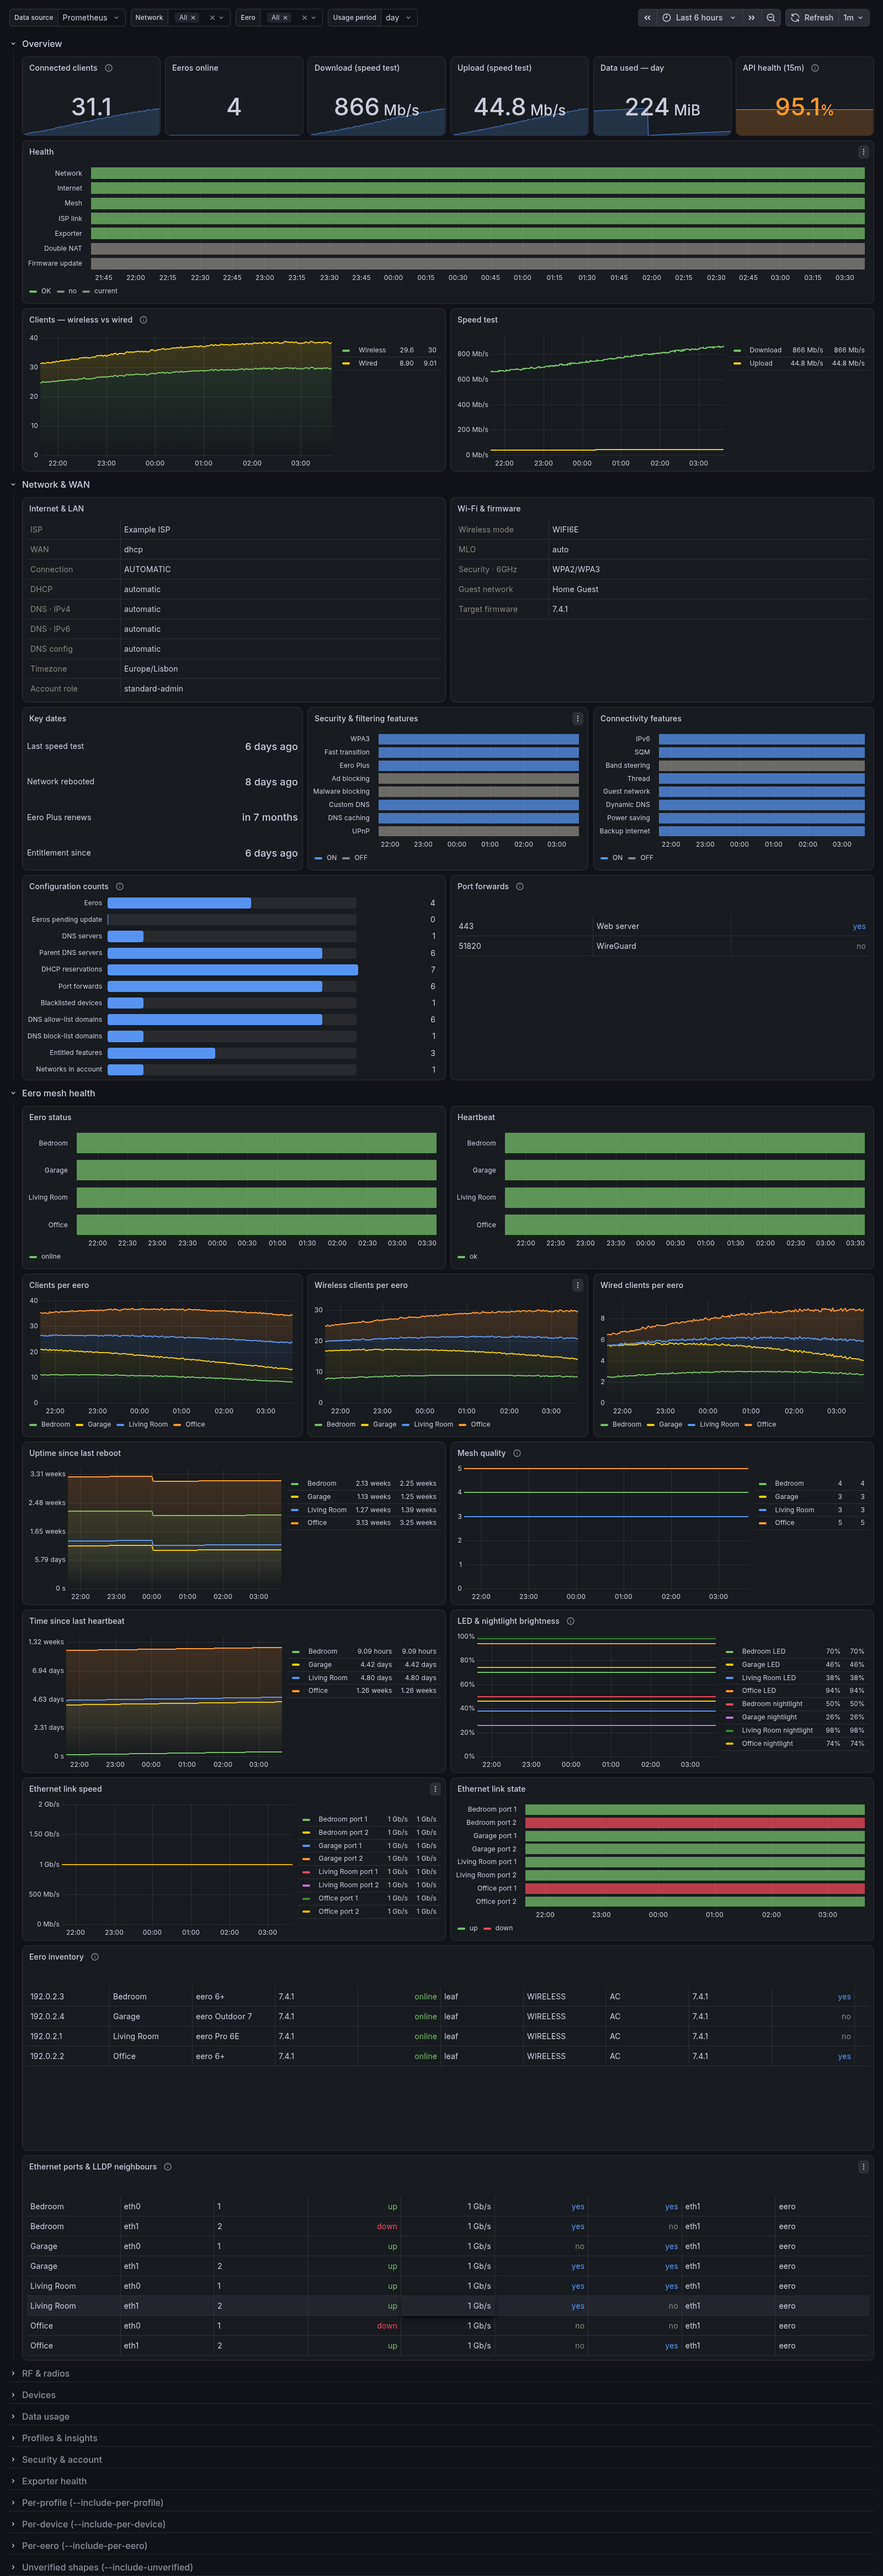
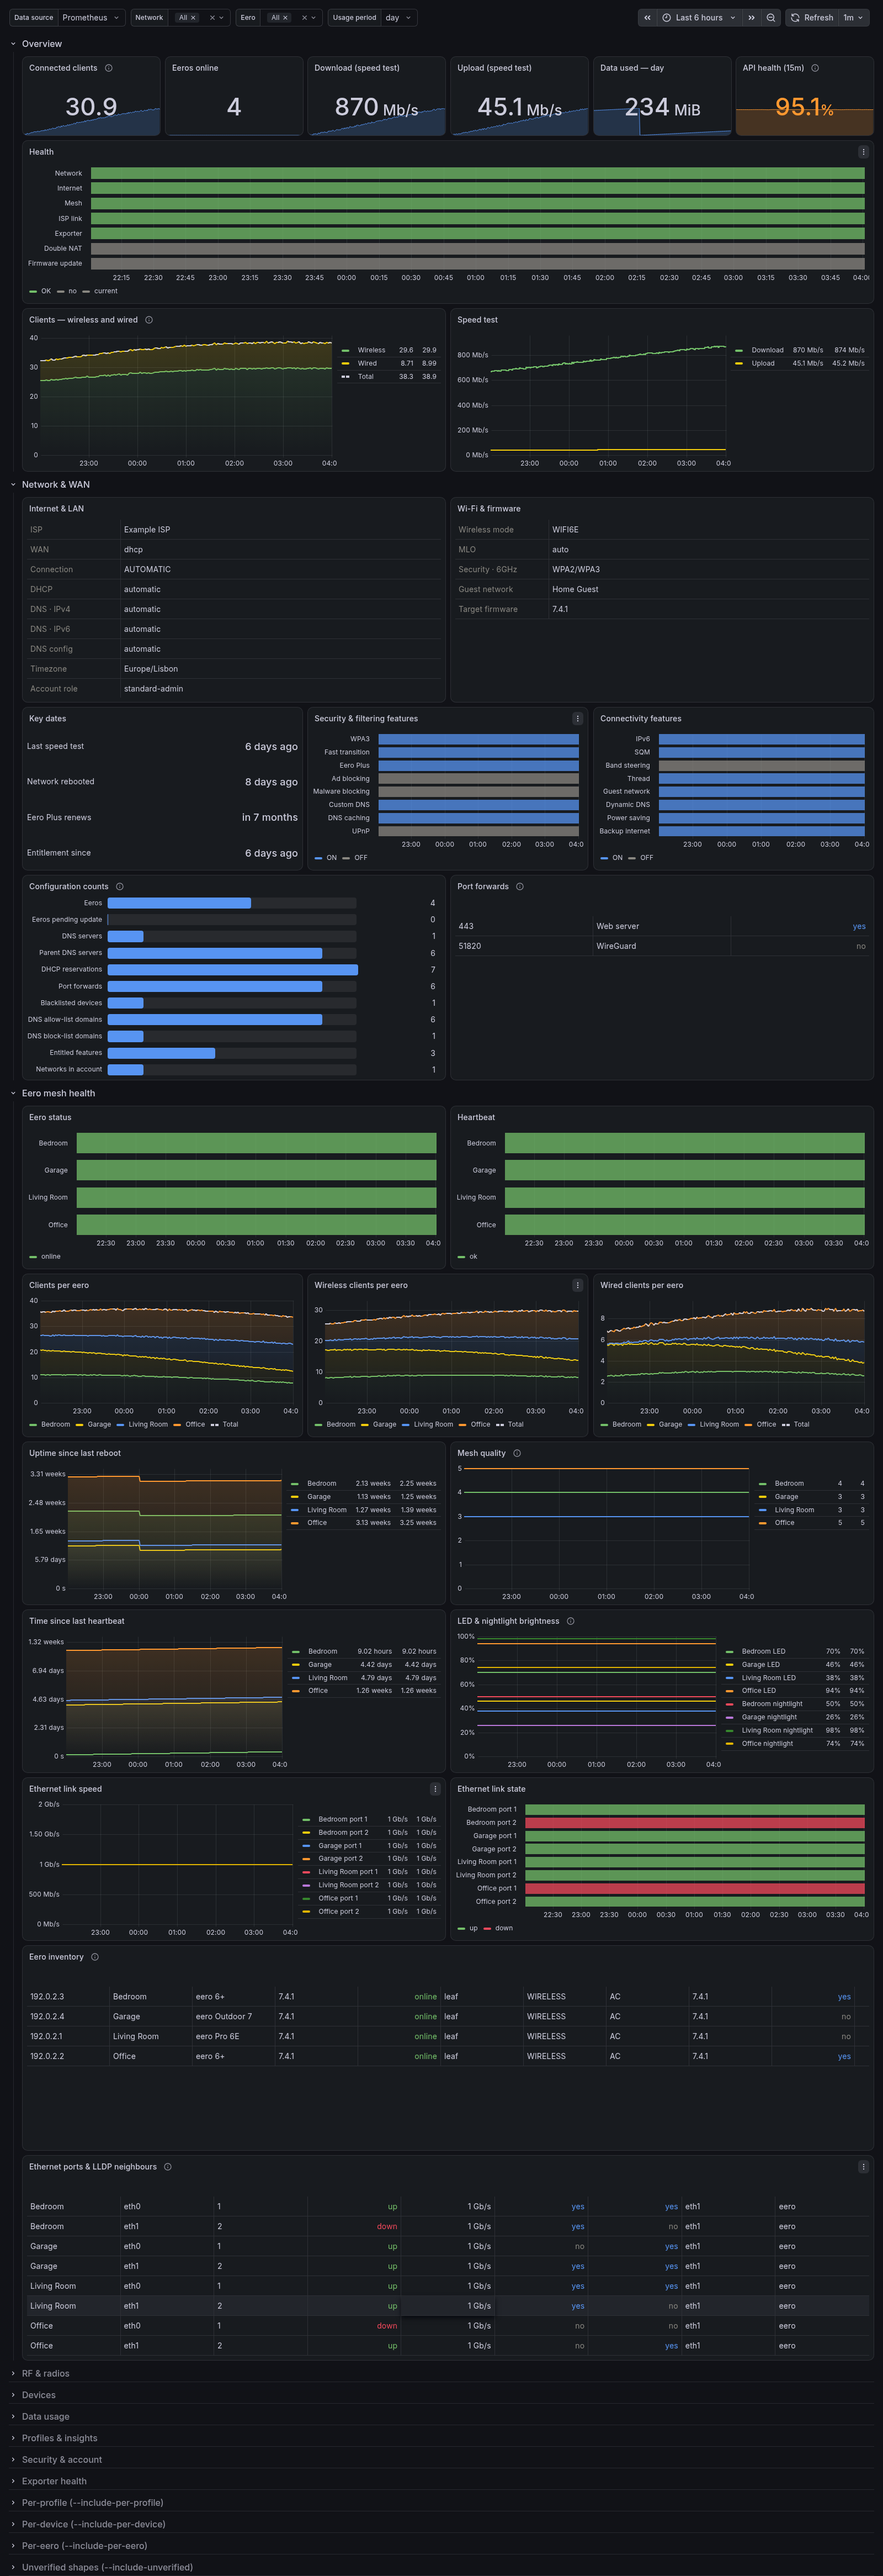
feat(grafana): add a dashed total line to stacked client and request charts
Overview "Clients — wireless and wired" (renamed from "wireless vs wired"), clients
per eero (all/wireless/wired), wireless clients per radio, connected devices per
profile, API requests by status and wireless connections per eero now carry an
unstacked "Total" series with last/max in the legend.

Changed region(s): [[0.5312, 0.0311, 0.5938, 0.0622], [0.9375, 0.4974, 0.9688, 0.5285], [0.7188, 0.0311, 0.75, 0.0622]]

diff --git a/scripts/gen_dashboard.py b/scripts/gen_dashboard.py
@@ -266,8 +266,19 @@ def timeseries(
     decimals: int | None = None,
     thresholds: Thresholds | None = None,
     overrides: list[dict[str, Any]] | None = None,
+    total: str | None = None,
     description: str = "",
 ) -> Panel:
+    """Line/bar chart; ``total`` adds a dashed, unstacked "Total" line over stacked series."""
+    if total:
+        items = [*items, (total, "Total")]
+        total_style = {
+            "color": {"mode": "fixed", "fixedColor": "text"},
+            "custom.stacking": {"mode": "none", "group": "A"},
+            "custom.fillOpacity": 0,
+            "custom.lineStyle": {"fill": "dash", "dash": [10, 10]},
+        }
+        overrides = [*(overrides or []), override("Total", **total_style)]
     p = base(title, "timeseries", unit, description)
     d = p["fieldConfig"]["defaults"]
     single = len(items) == 1 and "{{" not in items[0][1]
@@ -712,12 +723,16 @@ def overview(g: Grid) -> None:
     g.line(
         (
             timeseries(
-                "Clients — wireless vs wired",
+                "Clients — wireless and wired",
                 [
                     (f"sum(eero_eero_connected_wireless_clients_count{{{N}}})", "Wireless"),
                     (f"sum(eero_eero_connected_wired_clients_count{{{N}}})", "Wired"),
                 ],
                 stack=True,
+                total=(
+                    f"sum(eero_eero_connected_wireless_clients_count{{{N}}}) "
+                    f"+ sum(eero_eero_connected_wired_clients_count{{{N}}})"
+                ),
                 description="Eero-level client counts (stay correct when per-device series go stale).",
             ),
             HALF,
@@ -1035,6 +1050,7 @@ def eero_mesh(g: Grid) -> None:
                     title,
                     [(f"sum by (location) ({metric}{{{NE}}})", "{{location}}")],
                     stack=True,
+                    total=f"sum({metric}{{{NE}}})",
                 ),
                 THIRD,
             )
@@ -1155,6 +1171,7 @@ def rf(g: Grid) -> None:
                 "Wireless clients per radio",
                 [(f"sum by (location, band) (eero_eero_radio_client_count{{{NE}}})", LB)],
                 stack=True,
+                total=f"sum(eero_eero_radio_client_count{{{NE}}})",
             ),
             HALF,
         ),
@@ -1677,6 +1694,7 @@ def profiles_insights(g: Grid) -> None:
                 "Connected devices per profile",
                 [(by_profile("eero_profile_connected_devices_count"), "{{name}}")],
                 stack=True,
+                total=f"sum({by_profile('eero_profile_connected_devices_count')})",
             ),
             HALF,
         ),
@@ -1886,6 +1904,7 @@ def exporter(g: Grid) -> None:
                 [("sum by (status) (rate(eero_exporter_api_requests_total[5m]))", "{{status}}")],
                 "reqps",
                 stack=True,
+                total="sum(rate(eero_exporter_api_requests_total[5m]))",
                 overrides=status_overrides,
             ),
             HALF,
@@ -2004,6 +2023,7 @@ def opt_per_eero(g: Grid) -> None:
                 "Wireless connections per eero",
                 [(loc("eero_eero_connections_count"), "{{location}}")],
                 stack=True,
+                total=f"sum({loc('eero_eero_connections_count')})",
             ),
             HALF,
         ),
